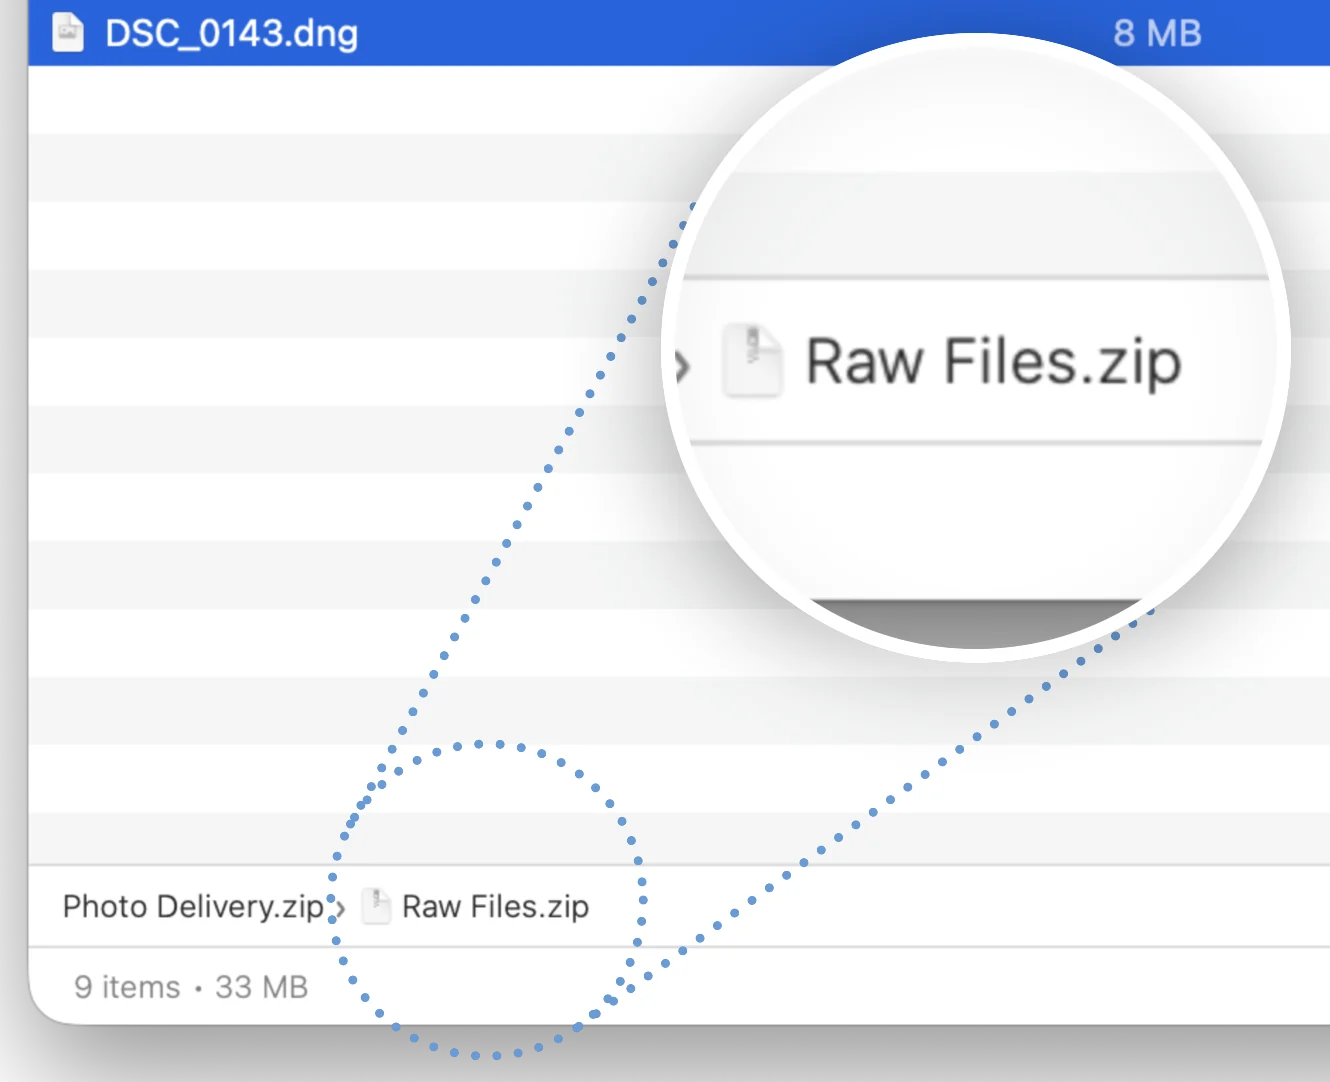
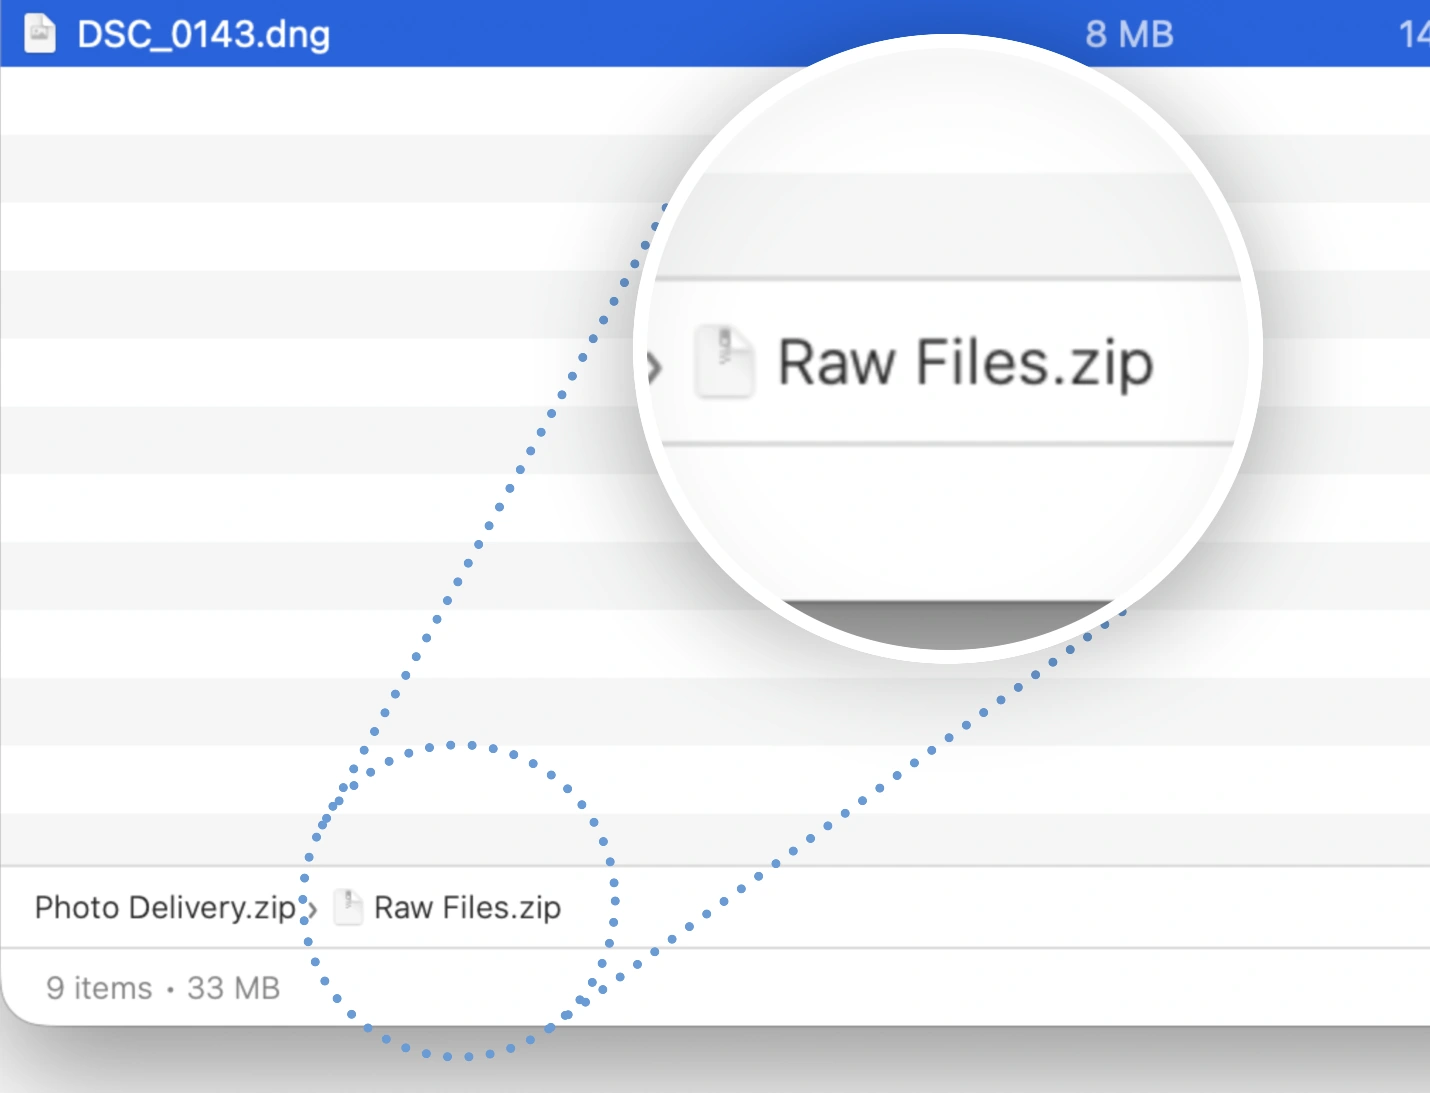
fix(home): show the screenshots sharp, whole and at their real size
The first cut scaled every crop to about half size (blurry, too small), let
next/image re-encode them, cut through window shadows, hid Finder's own menu
and paired the compress window with the create text.

- Tiles show each crop at exactly half its pixels: one capture pixel per
  screen pixel on Retina, the UI at its real size, served as cut
  (unoptimized). Below three columns they fill their tile instead.
- Cuts start at a real window or Quick Look corner (rounded to match), or
  sit on white (Finder's menu, the nested callout), or keep the whole
  window with its shadow (compress window).
- Every row pairs a single tile with a wide one: Browse | Nested,
  Preview | Finder (both menus visible), Extract | Compress with a drop.
  The compress window gets its own text; ".zip .7z" is back as the first
  of the three number tiles, which now form a compact row of their own.
- Text size M from the mock (headline 56 px, sections 36 px).

diff --git a/app/site.css b/app/site.css
@@ -188,19 +188,19 @@
     text-align: center;
   }
   .b-icon {
-    width: clamp(68px, 6.8vw, 88px);
-    height: clamp(68px, 6.8vw, 88px);
+    width: clamp(62px, 5.8vw, 76px);
+    height: clamp(62px, 5.8vw, 76px);
     margin-bottom: 4px;
     filter: drop-shadow(0 12px 24px rgba(245, 94, 34, 0.28));
   }
   .b-hero h1 {
     max-width: 17ch;
-    font-size: clamp(38px, 5.7vw, 68px);
+    font-size: clamp(34px, 4.7vw, 56px);
     font-weight: 700;
     line-height: 1.02;
-    letter-spacing: -0.04em;
+    letter-spacing: -0.035em;
   }
-  .b-lede { max-width: 50ch; font-size: clamp(16px, 1.5vw, 19px); line-height: 1.5; color: var(--ink-soft); }
+  .b-lede { max-width: 50ch; font-size: clamp(16px, 1.4vw, 18px); line-height: 1.5; color: var(--ink-soft); }
   .b-hero .dl-group, .b-get .dl-group { align-self: center; justify-content: center; margin-top: 6px; }
   /* a centred button opens its menu centred below it, so it never runs off a phone screen */
   .b-hero .dl-menu, .b-get .dl-menu { left: 50%; translate: -50% 0; }
@@ -370,10 +370,10 @@
   .b-section { padding-top: clamp(72px, 10vw, 128px); scroll-margin-top: 56px; }
   .b-h2 {
     margin-bottom: 0.85em;
-    font-size: clamp(28px, 3.5vw, 42px);
+    font-size: clamp(26px, 3vw, 36px);
     font-weight: 700;
     line-height: 1.05;
-    letter-spacing: -0.032em;
+    letter-spacing: -0.028em;
     text-align: center;
   }
   .b-tile {
@@ -383,12 +383,11 @@
     background: var(--tile);
     padding: var(--pad);
   }
-  .b-grid { display: grid; gap: 14px; }
+  .b-grid { display: grid; grid-auto-flow: dense; gap: 14px; }
   @media (min-width: 700px) {
     .b-grid { grid-template-columns: repeat(2, minmax(0, 1fr)); }
     .b-wide { grid-column: span 2; }
   }
-  @media (min-width: 700px) and (max-width: 999px) { .b-wide-md { grid-column: span 2; } }
   @media (min-width: 1000px) { .b-grid { grid-template-columns: repeat(3, minmax(0, 1fr)); } }
 
   /* what people say: the video as the big tile, App Store reviews beside it */
@@ -421,11 +420,11 @@
   .b-play svg { width: 24px; height: 24px; margin-left: 3px; fill: currentColor; }
   .b-video:hover .b-play { transform: scale(1.06); background: rgba(255, 255, 255, 0.26); }
   .b-video small { font-size: 13px; opacity: 0.7; }
-  .b-video b { max-width: 20ch; font-size: clamp(22px, 2.4vw, 29px); font-weight: 700; line-height: 1.08; letter-spacing: -0.03em; }
+  .b-video b { max-width: 20ch; font-size: clamp(21px, 2.1vw, 25px); font-weight: 700; line-height: 1.08; letter-spacing: -0.03em; }
   .b-video .b-note { font-size: 14.5px; opacity: 0.78; }
 
   .b-quote { display: flex; flex-direction: column; justify-content: space-between; gap: 22px; margin: 0; }
-  .b-quote blockquote { margin: 0; font-size: clamp(16px, 1.4vw, 18px); font-weight: 500; line-height: 1.45; letter-spacing: -0.012em; }
+  .b-quote blockquote { margin: 0; font-size: clamp(15.5px, 1.35vw, 17px); font-weight: 500; line-height: 1.45; letter-spacing: -0.012em; }
   .b-quote figcaption { font-size: 13px; color: var(--ink-faint); }
   .b-quote figcaption b { font-weight: 600; color: var(--ink); }
 
@@ -443,35 +442,30 @@
 
   /* features: copy on top, the app's own UI at the bottom */
   .b-feat { display: flex; flex-direction: column; gap: 22px; min-height: 340px; }
-  .b-feat h3 { font-size: clamp(18px, 1.6vw, 20px); font-weight: 700; line-height: 1.15; letter-spacing: -0.022em; }
+  .b-feat h3 { font-size: clamp(17px, 1.5vw, 19px); font-weight: 700; line-height: 1.15; letter-spacing: -0.022em; }
   .b-feat p { margin-top: 8px; max-width: 40ch; font-size: 15px; line-height: 1.5; color: var(--ink-soft); }
-  /* a screenshot detail bleeds off the tile's right and bottom edge */
-  .b-bleed {
+  /* Screenshots at exactly half their pixel size (the img's width and height), so one
+     capture pixel is one screen pixel on Retina and the UI stays sharp at its real
+     size. Anchored left, they run off the tile's right and bottom edge. */
+  .b-shot {
     position: relative;
     display: flex;
-    justify-content: flex-end;
     margin: auto calc(-1 * var(--pad)) calc(-1 * var(--pad)) 0;
   }
-  .b-bleed img {
-    width: min(100%, 440px);
-    height: auto;
-    border-top-left-radius: 12px;
-    box-shadow: 0 0 0 1px var(--edge), 0 22px 44px -22px var(--shadow);
+  .b-shot img { flex: none; max-width: none; }
+  /* cut at a real window or Quick Look corner: round the image to that corner */
+  .b-shot-window { border-top-left-radius: 23px; box-shadow: 0 0 0 1px var(--edge), 0 22px 44px -22px var(--shadow); }
+  /* cut inside a window, or from a capture laid on white */
+  .b-shot-card { border-top-left-radius: 12px; box-shadow: 0 0 0 1px var(--edge), 0 22px 44px -22px var(--shadow); }
+  /* the compress window, whole with its own shadow: its transparent margin sits in the
+     tile's padding, so the window lines up with the text */
+  .b-shot-compress { margin-left: -41px; }
+  /* below three columns the tiles are wider or narrower than the cuts, so the captures
+     fill their tile instead of showing the edge they were cut at */
+  @media (max-width: 999px) {
+    .b-shot img { width: 100%; height: auto; }
+    .b-shot-compress { margin-left: 0; }
   }
-  @media (min-width: 700px) {
-    .b-browse { display: grid; grid-template-columns: minmax(0, 0.8fr) minmax(0, 1.2fr); gap: 28px; }
-    .b-browse .b-bleed { align-self: end; margin-top: 28px; }
-    .b-browse .b-bleed img { width: min(100%, 560px); }
-  }
-
-  /* left-anchored captures run off the tile's right edge instead: Quick Look (with the
-     space bar in front), Finder's menu, the compress window */
-  .b-bleed-left { justify-content: flex-start; }
-  .b-bleed .b-shot-ql { flex: none; width: 480px; max-width: none; }
-  .b-bleed .b-shot-finder { flex: none; width: 380px; max-width: none; }
-  .b-bleed .b-shot-compress { flex: none; width: 420px; max-width: none; }
-  /* captures that keep their transparent surroundings and their own shadow get no frame */
-  .b-shot-free img { box-shadow: none; border-radius: 0; }
   .b-key {
     position: absolute;
     bottom: 22px;
@@ -493,16 +487,17 @@
 
   /* the numbers tiles: the big thing on top, words below */
   .b-stat { min-height: 0; }
-  .b-feat .b-num {
+  .b-feat .b-num, .b-feat .b-exts {
     margin: 0;
     max-width: none;
-    font-size: clamp(54px, 6vw, 76px);
+    font-size: clamp(48px, 5.2vw, 64px);
     font-weight: 700;
     line-height: 0.9;
     letter-spacing: -0.05em;
     color: var(--ink);
   }
   .b-feat .b-num { background: var(--grad); -webkit-background-clip: text; background-clip: text; color: transparent; }
+  .b-feat .b-exts { display: flex; gap: 0.25em; }
   .b-more { margin-top: auto; font-size: 14.5px; font-weight: 600; color: var(--ink); }
   .b-more::after { content: " ›"; color: var(--mark); }
   .b-feat .b-mono { margin-top: 10px; font-family: var(--mono); font-size: 12.5px; color: var(--ink-faint); }
@@ -659,12 +654,12 @@
     padding-bottom: clamp(72px, 10vw, 128px);
     text-align: center;
   }
-  .b-get .b-icon { width: clamp(60px, 6vw, 77px); height: clamp(60px, 6vw, 77px); margin-bottom: 0; }
+  .b-get .b-icon { width: clamp(55px, 5.1vw, 67px); height: clamp(55px, 5.1vw, 67px); margin-bottom: 0; }
   .b-get .b-h2 { margin-bottom: 0; }
 
   /* ─── CHINESE ─── PingFang wants normal tracking and more leading */
 
-  [lang="zh"] .b-hero h1 { max-width: none; font-size: clamp(28px, 5.13vw, 61px); letter-spacing: 0; line-height: 1.16; }
+  [lang="zh"] .b-hero h1 { max-width: none; font-size: clamp(28px, 4.23vw, 50px); letter-spacing: 0; line-height: 1.16; }
   [lang="zh"] .b-h2, [lang="zh"] .b-video b { letter-spacing: 0; line-height: 1.25; }
   [lang="zh"] .b-feat p, [lang="zh"] .b-free p, [lang="zh"] .b-lede, [lang="zh"] .b-faqlist details p { line-height: 1.75; }
   [lang="zh"] .b-spec dt { letter-spacing: 0.02em; }

diff --git a/sections/home/Features.tsx b/sections/home/Features.tsx
@@ -8,24 +8,48 @@ interface FeaturesProps {
 
 // ponytail: English screenshots on both locales until Chinese ones exist;
 // then cut them into public/img/zh and pick the folder by locale here.
-const shot = (name: string) => `/img/en/${name}.webp`;
+const SHOTS = {
+  // name: CSS size, exactly half the cut's pixels (scripts/cutouts.py), so the
+  // capture is shown 1:1 on Retina screens and served as cut, not re-encoded
+  browse: [350, 547],
+  nested: [715, 547],
+  preview: [350, 498],
+  finder: [715, 504],
+  extract: [350, 430],
+  compress: [710, 430],
+} as const;
 
-// Each tile shows its own piece of the app instead of one big screenshot: a crop
-// of a real window capture (scripts/cutouts.py), bleeding off the tile's edge.
+function Shot({ name, alt, look }: { name: keyof typeof SHOTS; alt: string; look: "window" | "card" | "free" }) {
+  const [width, height] = SHOTS[name];
+  return <Image className={`b-shot-${look}`} src={`/img/en/tile-${name}.webp`} alt={alt} width={width} height={height} unoptimized />;
+}
+
+// Each tile shows its own piece of the real app at its real size. Every row pairs
+// a single tile with a wide one; the three numbers close the grid as a row of their own.
 export default function Features({ t }: FeaturesProps) {
   const h = t.home;
 
   return (
     <section id="features" className="b-wrap b-section">
       <h2 className="b-h2">{h.featuresTitle}</h2>
-      <div className="b-grid">
-        <article className="b-tile b-feat b-browse b-wide">
+      <div className="b-grid b-feats">
+        <article className="b-tile b-feat">
           <div>
             <h3>{h.browseTitle}</h3>
             <p>{h.browseBody}</p>
           </div>
-          <div className="b-bleed">
-            <Image src={shot("tile-browse")} alt={h.browseAlt} width={1185} height={621} sizes="(min-width: 700px) 560px, 90vw" />
+          <div className="b-shot">
+            <Shot name="browse" alt={h.browseAlt} look="window" />
+          </div>
+        </article>
+
+        <article className="b-tile b-feat b-wide">
+          <div>
+            <h3>{h.nestedTitle}</h3>
+            <p>{h.nestedBody}</p>
+          </div>
+          <div className="b-shot">
+            <Shot name="nested" alt={h.nestedAlt} look="card" />
           </div>
         </article>
 
@@ -34,21 +58,21 @@ export default function Features({ t }: FeaturesProps) {
             <h3>{h.previewTitle}</h3>
             <p>{h.previewBody}</p>
           </div>
-          <div className="b-bleed b-bleed-left">
+          <div className="b-shot">
             <kbd className="b-key" aria-hidden="true">
               {h.spaceKey}
             </kbd>
-            <Image className="b-shot-ql" src={shot("tile-preview")} alt={h.previewAlt} width={2005} height={993} sizes="480px" />
+            <Shot name="preview" alt={h.previewAlt} look="window" />
           </div>
         </article>
 
-        <article className="b-tile b-feat">
+        <article className="b-tile b-feat b-wide">
           <div>
-            <h3>{h.nestedTitle}</h3>
-            <p>{h.nestedBody}</p>
+            <h3>{h.finderTitle}</h3>
+            <p>{h.finderBody}</p>
           </div>
-          <div className="b-bleed b-shot-free">
-            <Image src={shot("tile-nested")} alt={h.nestedAlt} width={1330} height={1082} sizes="(min-width: 1000px) 350px, (min-width: 700px) 45vw, 90vw" />
+          <div className="b-shot">
+            <Shot name="finder" alt={h.finderAlt} look="card" />
           </div>
         </article>
 
@@ -57,29 +81,30 @@ export default function Features({ t }: FeaturesProps) {
             <h3>{h.extractTitle}</h3>
             <p>{h.extractBody}</p>
           </div>
-          <div className="b-bleed">
-            <Image src={shot("tile-extract")} alt={h.extractAlt} width={1180} height={590} sizes="(min-width: 700px) 440px, 90vw" />
+          <div className="b-shot">
+            <Shot name="extract" alt={h.extractAlt} look="card" />
           </div>
         </article>
 
-        <article className="b-tile b-feat">
+        <article className="b-tile b-feat b-wide">
           <div>
-            <h3>{h.finderTitle}</h3>
-            <p>{h.finderBody}</p>
+            <h3>{h.compressTitle}</h3>
+            <p>{h.compressBody}</p>
           </div>
-          <div className="b-bleed b-bleed-left b-shot-free">
-            <Image className="b-shot-finder" src={shot("tile-finder")} alt={h.finderAlt} width={1236} height={688} sizes="380px" />
+          <div className="b-shot b-shot-compress">
+            <Shot name="compress" alt={h.compressAlt} look="free" />
           </div>
         </article>
 
-        <article className="b-tile b-feat">
+        <article className="b-tile b-feat b-stat">
+          <p className="b-exts" aria-hidden="true">
+            <span>.zip</span>
+            <span>.7z</span>
+          </p>
           <div>
             <h3>{h.createTitle}</h3>
             <p>{h.createBody}</p>
             <p className="b-mono">AES-256 · ZipCrypto · .zip.001 · .7z.001</p>
-          </div>
-          <div className="b-bleed b-bleed-left b-shot-free">
-            <Image className="b-shot-compress" src={shot("tile-compress")} alt={h.createAlt} width={1370} height={700} sizes="420px" />
           </div>
         </article>
 
@@ -94,7 +119,7 @@ export default function Features({ t }: FeaturesProps) {
           </a>
         </article>
 
-        <article className="b-tile b-feat b-stat b-wide-md">
+        <article className="b-tile b-feat b-stat">
           <p className="b-num">22</p>
           <div>
             <h3>{h.langsTitle}</h3>

diff --git a/__tests__/page-en.test.tsx b/__tests__/page-en.test.tsx
@@ -122,7 +122,7 @@ describe("English page - plausible download events", () => {
 describe("English page - sections", () => {
   it("renders the feature tiles", async () => {
     await renderEnPage();
-    for (const title of [en.home.browseTitle, en.home.previewTitle, en.home.nestedTitle, en.home.extractTitle, en.home.finderTitle, en.home.createTitle]) {
+    for (const title of [en.home.browseTitle, en.home.previewTitle, en.home.nestedTitle, en.home.extractTitle, en.home.finderTitle, en.home.compressTitle, en.home.createTitle]) {
       expect(screen.getByText(title)).toBeInTheDocument();
     }
   });

diff --git a/sections/home/Proof.tsx b/sections/home/Proof.tsx
@@ -24,6 +24,7 @@ export default function Proof({ t }: ProofProps) {
             height={1463}
             sizes="(min-width: 1160px) 900px, 90vw"
             priority
+            unoptimized
           />
         </figure>
       </div>

diff --git a/scripts/cutouts.py b/scripts/cutouts.py
@@ -4,9 +4,23 @@
 
 The sources are window captures in press-kit/assets/screenshots/en/ (Cmd-Shift-4,
 Space, click the window: a Retina PNG with a transparent background and the
-window's shadow). Re-run after replacing them, and give an output a new name when its picture
-changes: optimised images are cached by file name. Boxes are in the captures' pixels
-(2655 x 1783); the Chinese pages show these too until Chinese screenshots exist.
+window's shadow), 2655 x 1783 px. Re-run after replacing them.
+
+The page shows every tile at exactly half its pixel size, so one capture pixel is
+one screen pixel on a Retina display and the UI stays sharp at its real size.
+That is why the boxes are sized to the tiles (a single tile shows ~640 px of a
+capture, a wide one ~1370 px) and cut only where they are clean:
+
+- "window" cuts start at a real window or panel corner, and the page rounds the
+  image to that corner's radius;
+- "white" cuts are composited onto white first, for captures whose edge would
+  otherwise cut through a shadow (the Finder menu starts mid-menu, the nested
+  shot's callout hangs below the window);
+- "free" cuts keep the transparent background and the window's own shadow, with
+  the whole shadow inside the box, so nothing is cut but the far right edge.
+
+Give an output a new name when its picture changes: optimised images are cached
+by file name. The Chinese pages show these too until Chinese captures exist.
 """
 from pathlib import Path
 from PIL import Image
@@ -16,26 +30,29 @@ SRC = ROOT / "press-kit" / "assets" / "screenshots" / "en"
 OUT = ROOT / "public" / "img" / "en"
 
 CUTS = {
-    # name: (screenshot, box as (left, top, right, bottom), or None for the whole window)
-    "stage-window": ("01-browse.png", None),                       # the hero stage
-    "tile-browse": ("04-preview.png", (175, 124, 1360, 745)),      # title bar, folders, files
-    "tile-preview": ("04-preview.png", (650, 790, 2655, 1783)),    # the Quick Look panel
-    "tile-nested": ("02-nested.png", (130, 538, 1460, 1620)),      # the breadcrumb, magnified
-    "tile-extract": ("03-extract.png", (700, 520, 1880, 1110)),    # a PDF on its way out
-    "tile-finder": ("05-finder.png", (1180, 640, 2416, 1328)),     # the MacPacker submenu, out of its row
-    "tile-compress": ("06-compress.png", (330, 310, 1700, 1010)),  # the quick compress window
+    # name: (capture, how, box as (left, top, right, bottom); None = the window itself)
+    "stage-window": ("01-browse.png", "window", None),                     # the hero stage
+    "tile-browse": ("01-browse.png", "window", (159, 108, 859, 1201)),     # the window's top-left corner
+    "tile-nested": ("02-nested.png", "white", (158, 537, 1588, 1630)),     # magnifier and breadcrumb
+    "tile-preview": ("04-preview.png", "window", (648, 788, 1348, 1783)),  # the Quick Look panel's corner
+    "tile-finder": ("05-finder.png", "white", (332, 373, 1762, 1380)),     # Finder's menu and MacPacker's
+    "tile-extract": ("03-extract.png", "window", (1260, 540, 1960, 1400)),  # the PDF on its way out
+    "tile-compress": ("06-compress.png", "free", (259, 261, 1679, 1121)),  # the compress window, whole
 }
 
 OUT.mkdir(parents=True, exist_ok=True)
-for name, (src, box) in CUTS.items():
+for name, (src, how, box) in CUTS.items():
     shot = Image.open(SRC / src).convert("RGBA")
     if box is None:
-        # the window alone: crop to it and drop the capture's own shadow, the page adds one
-        alpha = shot.getchannel("A")
-        shot = shot.crop(alpha.point(lambda v: 255 if v > 250 else 0).getbbox())
+        # the window alone: crop to it and drop the capture's shadow, the page adds one
+        shot = shot.crop(shot.getchannel("A").point(lambda v: 255 if v > 250 else 0).getbbox())
         shot.putalpha(shot.getchannel("A").point(lambda v: v if v > 200 else 0))
     else:
+        if how == "white":
+            white = Image.new("RGBA", shot.size, (255, 255, 255, 255))
+            white.alpha_composite(shot)
+            shot = white
         shot = shot.crop(box)
     out = OUT / f"{name}.webp"
-    shot.save(out, "WEBP", quality=86, method=6)
+    shot.save(out, "WEBP", quality=94, method=6)
     print(f"{out.relative_to(ROOT)}  {shot.width} x {shot.height}  {out.stat().st_size // 1024} KB")
